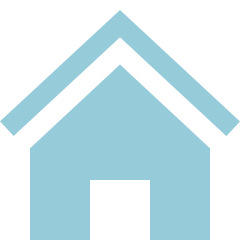
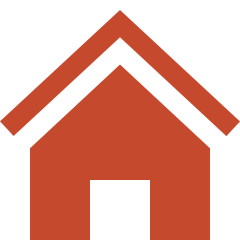
Updated Style Tile

diff --git a/style-tile/index.html b/style-tile/index.html
@@ -16,7 +16,7 @@
 
 <!-- Project Info -->
 	<section class="grid-container">
-		<h1>OK USA! 'MERICA!</h1>
+		<h1>LAURA KNEESHAW</h1>
 	</section>
 
 <!-- 
@@ -51,19 +51,19 @@
 	<section class="grid-container">
 		<h2>Imagery</h2>
 		<div class="imagery-1">
-			<img src="http://i.onionstatic.com/avclub/3784/79/16x9/1200.jpg">
+			<img src="img/light-forest.jpg">
 		</div>
 		<div class="imagery-2">
-			<img src="http://placehold.it/300x200">
+			<img src="img/grand-canyon.jpg">
 		</div>
 		<div class="imagery-3">
-			<img src="http://placehold.it/300x200">
+			<img src="img/books.jpg">
 		</div>
 		<div class="imagery-4">
-			<img src="http://placehold.it/300x200">
+			<img src="img/guitar.jpg">
 		</div>
 		<div class="imagery-5">
-			<img src="http://placehold.it/300x200">
+			<img src="img/montana-rocks.jpg">
 		</div>
 	</section>
 
@@ -115,13 +115,13 @@
 		<h2>Typography A</h2>
 
 		<h1>Primary Header</h1>
-		<p>Font name, variant, color, etc</p>
+		<p>Raleway, red, 2em, font weight: 500</p>
 		
 		<h3>Secondary Header</h3>
-		<p>Font name, variant, color, etc</p>
+		<p>Raleway, dark brown, 22px, font weight : 500</p>
 		
 		<h3>Paragraphs</h3>
-		<p>Font name, variant, colo, etc</p>
+		<p>Calibri, dark brown, 1em, font weight: 200</p>
 			
 		<p>Lorem ipsum <a href="#">dolor sit amet</a>, consectetur adipisicing elit, sed do eiusmod
 		tempor incididunt ut <a href="#">labore et</a>dolore magna aliqua. ULorem ipsum dolor sit amet, an meis adhuc timeam vim. Officiis atomorum no ius. His quod alii fugit ut. Pri ut nihil labore, inimicus urbanitas accommodare pro id. Eos no numquam fabulas, eam ut docendi omnesque referrentur. No per dicat dissentiunt. Id vis impetus torquatos reformidans, vero mediocrem dissentiunt no vis.

diff --git a/style-tile/css/styles.css b/style-tile/css/styles.css
@@ -1,27 +1,32 @@
 /***************/
 /* YOUR STYLES */
 /***************/
+@import url('https://fonts.googleapis.com/css?family=Raleway');
 
 /* Color Palette */
 .color-1 {
-    background: red;
+    background: #fff8e8;
 }
 
 .color-2 {
-    background: white;
+    background: #2d200c;
 }
 
 .color-3 {
-    background: blue;
+    background: #9bb992;
+}
+
+.color-4 {
+    background: #c5492d;
 }
 
 /* Textures or Patterns*/
 .pattern-1 {
-    background: url("../img/flag.png")
+    background: url("../img/subtle_white_mini_waves.png")
 }
 
 .pattern-2 {
-    background: url("../img/feathers.jpg")
+    background: url("../img/ricepaper_v3.png")
 }
 
 /* Imagery */
@@ -33,13 +38,16 @@
 /* Navigation */
 a:link,
 a:visited {
-    color: blue;
+    color: #c5492d;
     text-transform: uppercase;
 }
 
+a:focus {
+    
+}
+
 a:hover {
-    background: red
-    margin-left: 20px; 
+    color: #9bb992;
 }
 
 a:active {
@@ -49,8 +57,39 @@ a:active {
 
 
 /* Typography */
+body {
+    color: #2d200c;
+}
+h1 {
+    color: #c5492d;
+	font-family: 'Raleway', sans-serif;
+	font-size: 2em;
+	font-style: normal;
+	font-variant: normal;
+	font-weight: 700;
+	line-height: 26px;
+}
+h2 {
+    font-family: 'Raleway', sans-serif;
+	font-size: 24px;
+	font-style: normal;
+	font-variant: normal;
+	font-weight: 500;
+	line-height: 20px;
+}
+h3 {
+	font-family: 'Raleway', sans-serif;
+	font-size: 22px;
+	font-style: normal;
+	font-variant: normal;
+	font-weight: 500;
+	line-height: 15px;
+}
 p {
-    font-family: 'Open Sans', sans-serif;
+    font-family: Calibri, Candara, Segoe, 'Segoe UI', Optima, Arial, sans-serif;
+    font-size: 1em;
+    font-weight: 200;
+    line-height: 20px;
 }
 
 
